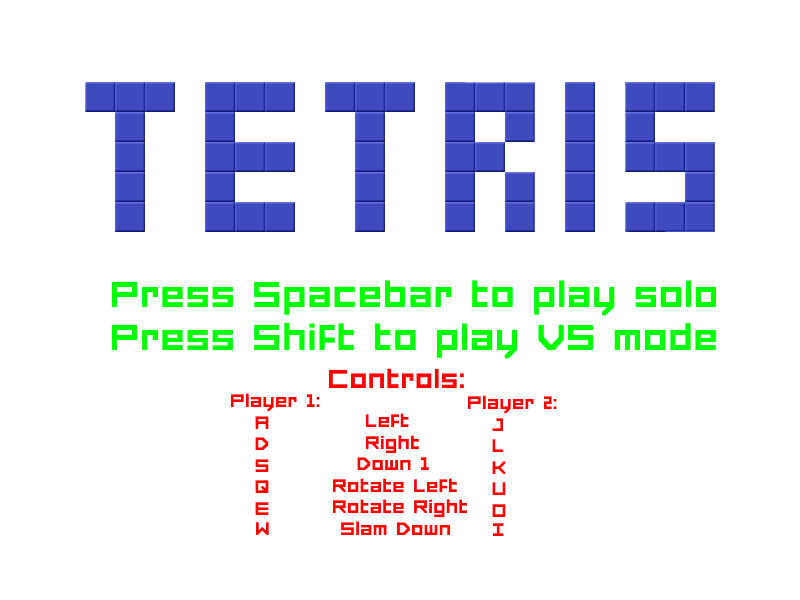
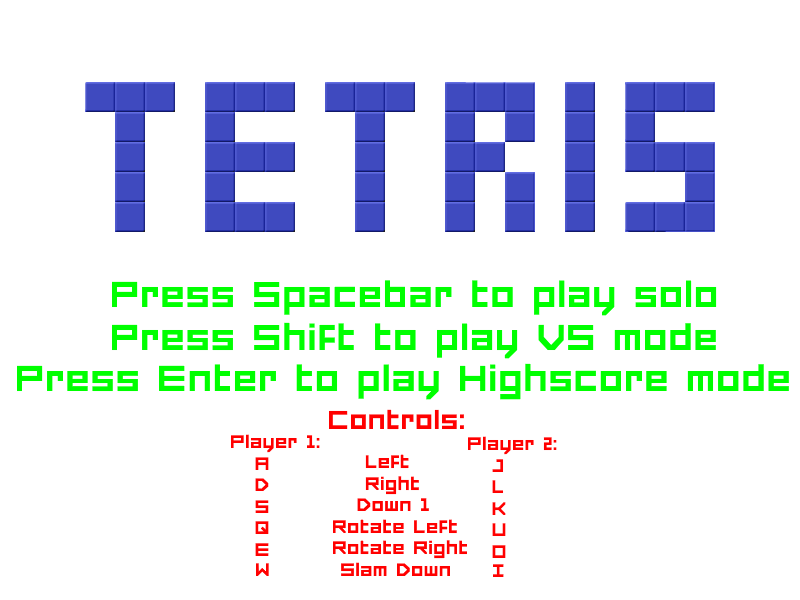
Meer multiplayer

Changed region(s): [[0.0, 0.6, 1.0, 0.96]]

diff --git a/TetrisTemplate/GameWorld.cs b/TetrisTemplate/GameWorld.cs
@@ -16,7 +16,8 @@ class GameWorld
     {
         StartScreen,
         PlayingSinglePlayer,
-        PlayingVS,
+        PlayingVSMode,
+        HighScoreMode,
         GameOverSinglePlayer,
         Player1Wins,
         Player2Wins,
@@ -80,9 +81,21 @@ class GameWorld
                     gameState = GameState.PlayingSinglePlayer;
                     grid1.Reset();
                 }
+                else if (inputHelper.KeyPressed(Keys.Enter))
+                {
+                    gameState = GameState.HighScoreMode;
+                    grid1.Reset();
+                    if (grid2 == null)
+                        grid2 = new TetrisGrid();
+                    else
+                        grid2.Reset();
+                    grid1.BeginPosition = new Vector2(000, 0);
+                    grid2.BeginPosition = new Vector2(510, 0);
+                    parent.SetScreenSize(1020, 600);
+                }
                 else if (inputHelper.KeyPressed(Keys.LeftShift))
                 {
-                    gameState = GameState.PlayingVS;
+                    gameState = GameState.PlayingVSMode;
                     grid1.Reset();
                     if (grid2 == null)
                         grid2 = new TetrisGrid();
@@ -93,7 +106,8 @@ class GameWorld
                     parent.SetScreenSize(1020, 600);
                 }
                 break;
-            case GameState.PlayingVS:
+            case GameState.PlayingVSMode:
+            case GameState.HighScoreMode:
                 if(!grid2.IsDead)
                     grid2.HandleInput(gameTime, inputHelper, Keys.J, Keys.L, Keys.O, Keys.U, Keys.I, Keys.K);
                 goto case GameState.PlayingSinglePlayer;
@@ -108,7 +122,15 @@ class GameWorld
     {
         switch(gameState)
         {
-            case GameState.PlayingVS:
+            case GameState.PlayingVSMode:
+                if (!grid2.IsDead)
+                    grid2.Update(gameTime);
+                else
+                    gameState = GameState.Player1Wins;
+                if (grid1.IsDead)
+                    gameState = GameState.Player2Wins;
+                goto case GameState.PlayingSinglePlayer;
+            case GameState.HighScoreMode:
                 if (!grid2.IsDead)
                     grid2.Update(gameTime);
                 else if (grid2.IsDead && grid1.IsDead)
@@ -138,7 +160,8 @@ class GameWorld
             case GameState.StartScreen:
                 spriteBatch.Draw(StartScreen, new Vector2(-30, 0), Color.White);
                 break;
-            case GameState.PlayingVS:
+            case GameState.PlayingVSMode:
+            case GameState.HighScoreMode:
                 grid2.Draw(gameTime, spriteBatch);
                 goto case GameState.PlayingSinglePlayer;
             case GameState.PlayingSinglePlayer:
